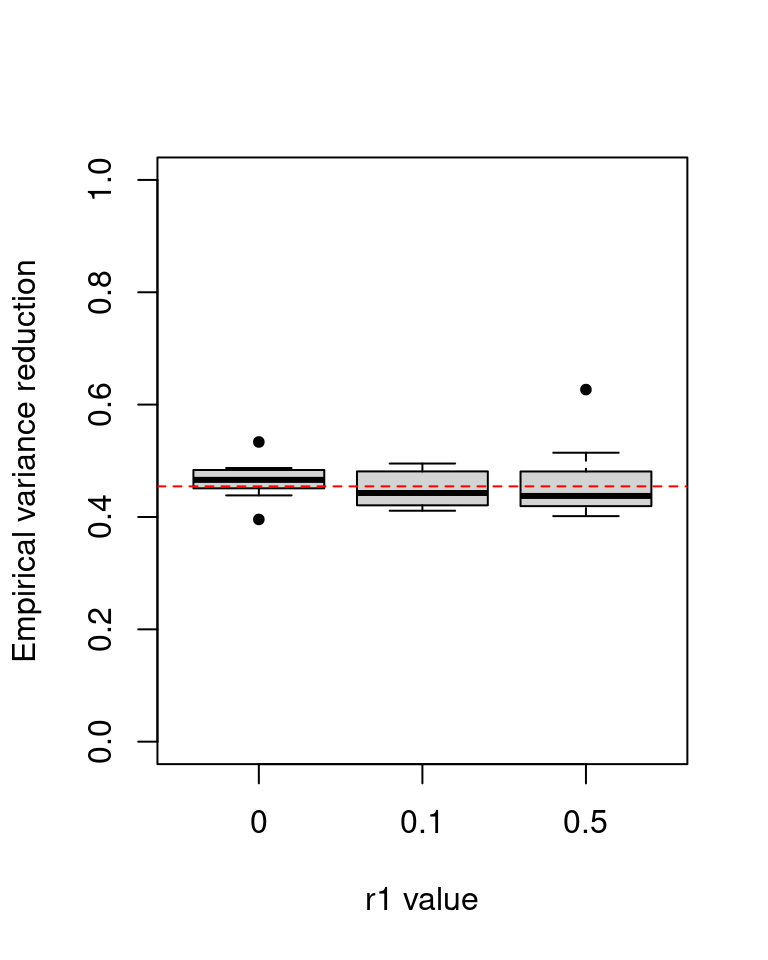
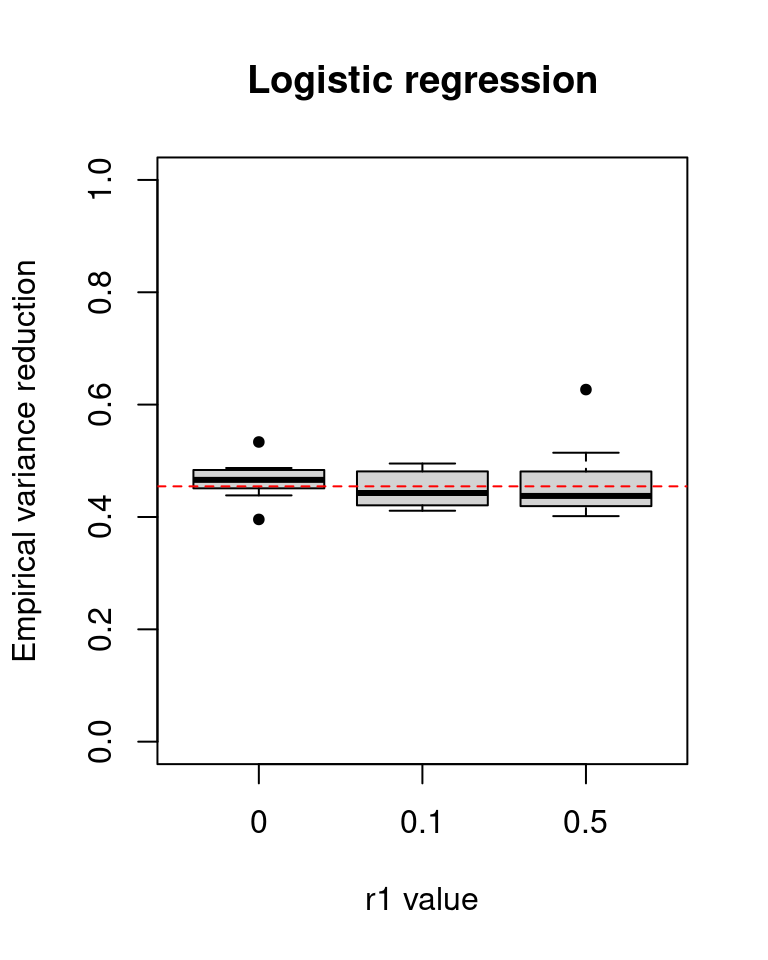
Build site.

Changed region(s): [[0.3125, 0.0625, 0.7812, 0.125]]

diff --git a/docs/calibration_trio.html b/docs/calibration_trio.html
@@ -522,15 +522,15 @@ project makes it easier to run your code on other machines.</p>
 <div class="panel panel-default">
 <div class="panel-heading">
 <p class="panel-title">
-<a data-toggle="collapse" data-parent="#workflowr-checks" href="#strongRepositoryversionstrongahrefhttpsgithubcomyunqiyang0215simulationcalibratedmrtree17908c2b23c984656fdb80a0e54f6ac204f91d2btargetblank17908c2a">
+<a data-toggle="collapse" data-parent="#workflowr-checks" href="#strongRepositoryversionstrongahrefhttpsgithubcomyunqiyang0215simulationcalibratedmrtreec7f2ff0a1dbb9214a51f4e5fedb8138e6ca8c80etargetblankc7f2ff0a">
 <span class="glyphicon glyphicon-ok text-success"
 aria-hidden="true"></span> <strong>Repository version:</strong>
-<a href="https://github.com/yunqiyang0215/simulation-calibrated-mr/tree/17908c2b23c984656fdb80a0e54f6ac204f91d2b" target="_blank">17908c2</a>
+<a href="https://github.com/yunqiyang0215/simulation-calibrated-mr/tree/c7f2ff0a1dbb9214a51f4e5fedb8138e6ca8c80e" target="_blank">c7f2ff0</a>
 </a>
 </p>
 </div>
 <div
[2 lines of base64/hex data omitted]
 class="panel-collapse collapse">
 <div class="panel-body">
 <p>
@@ -540,7 +540,7 @@ reproducibility.
 </p>
 <p>
 The results in this page were generated with repository version
-<a href="https://github.com/yunqiyang0215/simulation-calibrated-mr/tree/17908c2b23c984656fdb80a0e54f6ac204f91d2b" target="_blank">17908c2</a>.
+<a href="https://github.com/yunqiyang0215/simulation-calibrated-mr/tree/c7f2ff0a1dbb9214a51f4e5fedb8138e6ca8c80e" target="_blank">c7f2ff0</a>.
 See the <em>Past versions</em> tab to see a history of the changes made
 to the R Markdown and HTML files.
 </p>
@@ -611,6 +611,40 @@ Message
 </tr>
 </thead>
 <tbody>
+<tr>
+<td>
+Rmd
+</td>
+<td>
+<a href="https://github.com/yunqiyang0215/simulation-calibrated-mr/blob/c7f2ff0a1dbb9214a51f4e5fedb8138e6ca8c80e/analysis/calibration_trio.Rmd" target="_blank">c7f2ff0</a>
+</td>
+<td>
+yunqi yang
+</td>
+<td>
+2024-05-25
+</td>
+<td>
+wflow_publish("analysis/calibration_trio.Rmd")
+</td>
+</tr>
+<tr>
+<td>
+html
+</td>
+<td>
+<a href="https://rawcdn.githack.com/yunqiyang0215/simulation-calibrated-mr/e5c79fbea9c079fad6fd578070ea489688acb9ab/docs/calibration_trio.html" target="_blank">e5c79fb</a>
+</td>
+<td>
+yunqi yang
+</td>
+<td>
+2024-05-25
+</td>
+<td>
+Build site.
+</td>
+</tr>
 <tr>
 <td>
 Rmd
@@ -946,7 +980,7 @@ rownames(vr) = r1
 
 # Create a vector for equally spaced x-values
 x_values = c(1, 2, 3)
-plot(x = as.factor(rep(x_values, p)), y = c(vr), xlab = &quot;r1 value&quot;, ylab = &quot;Empirical variance reduction&quot;, xaxt=&quot;n&quot;, pch = 20,ylim = c(0, 1), boxwex = 0.5)
+plot(x = as.factor(rep(x_values, p)), y = c(vr), xlab = &quot;r1 value&quot;, ylab = &quot;Empirical variance reduction&quot;, xaxt=&quot;n&quot;, pch = 20,ylim = c(0, 1), boxwex = 0.5, main = &quot;Linear regression&quot;)
 axis(1, at = x_values, labels = c(&quot;0&quot;, &quot;0.1&quot;, &quot;0.5&quot;))
 abline(h = theo_vr, col = &quot;red&quot;, lty = 2)</code></pre>
 <p><img src="figure/calibration_trio.Rmd/unnamed-chunk-5-1.png" width="384" style="display: block; margin: auto;" /></p>
@@ -1088,7 +1122,7 @@ rownames(vr) = r1
 
 # Create a vector for equally spaced x-values
 x_values = c(1, 2, 3)
-plot(x = as.factor(rep(x_values, p)), y = c(vr), xlab = &quot;r1 value&quot;, ylab = &quot;Empirical variance reduction&quot;, xaxt=&quot;n&quot;, pch = 20, ylim = c(0, 1))
+plot(x = as.factor(rep(x_values, p)), y = c(vr), xlab = &quot;r1 value&quot;, ylab = &quot;Empirical variance reduction&quot;, xaxt=&quot;n&quot;, pch = 20, ylim = c(0, 1), main = &quot;Logistic regression&quot;)
 axis(1, at = x_values, labels = c(&quot;0&quot;, &quot;0.1&quot;, &quot;0.5&quot;))
 abline(h = theo_vr, col = &quot;red&quot;, lty = 2)</code></pre>
 <p><img src="figure/calibration_trio.Rmd/unnamed-chunk-10-1.png" width="384" style="display: block; margin: auto;" /></p>
@@ -1114,6 +1148,17 @@ Date
 </tr>
 </thead>
 <tbody>
+<tr>
+<td>
+<a href="https://github.com/yunqiyang0215/simulation-calibrated-mr/blob/e5c79fbea9c079fad6fd578070ea489688acb9ab/docs/figure/calibration_trio.Rmd/unnamed-chunk-10-1.png" target="_blank">e5c79fb</a>
+</td>
+<td>
+yunqi yang
+</td>
+<td>
+2024-05-25
+</td>
+</tr>
 <tr>
 <td>
 <a href="https://github.com/yunqiyang0215/simulation-calibrated-mr/blob/609cef8d24eee0ecbbf70bd1907950ad172504ba/docs/figure/calibration_trio.Rmd/unnamed-chunk-10-1.png" target="_blank">609cef8</a>
